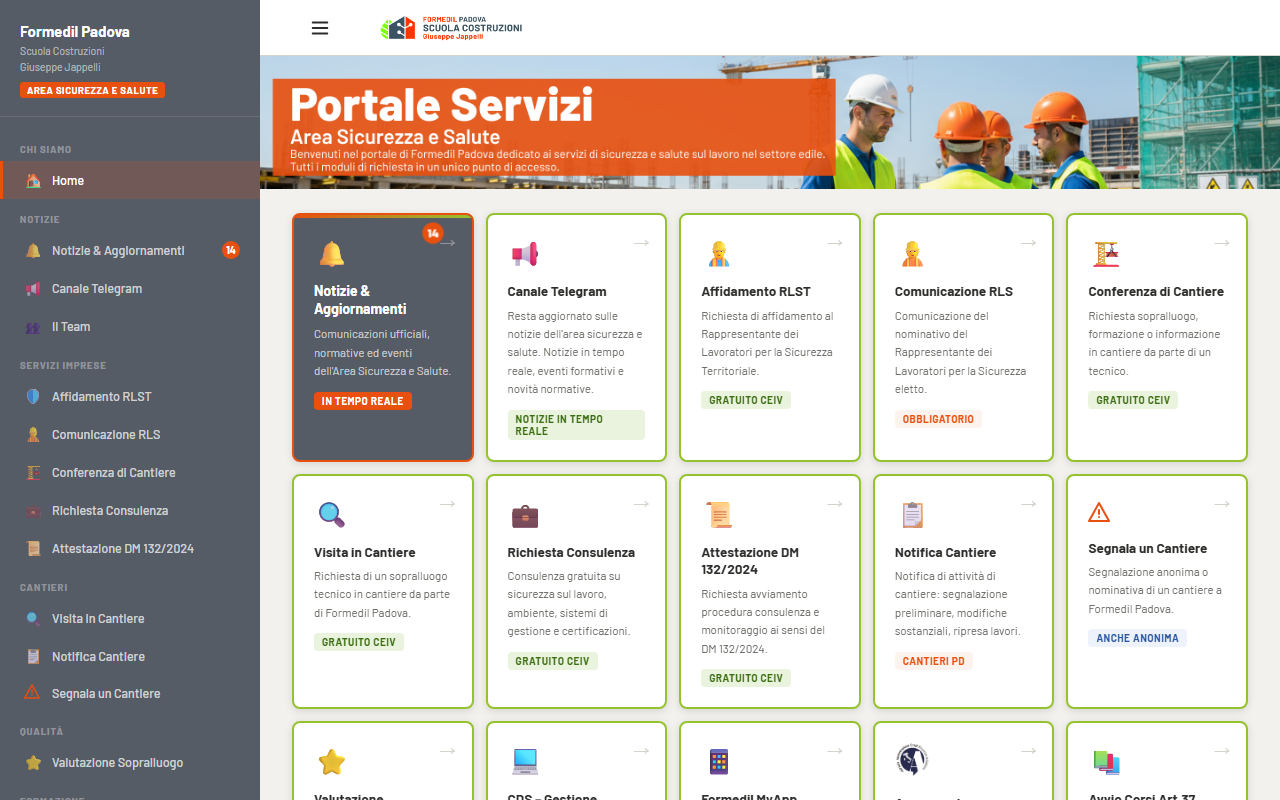
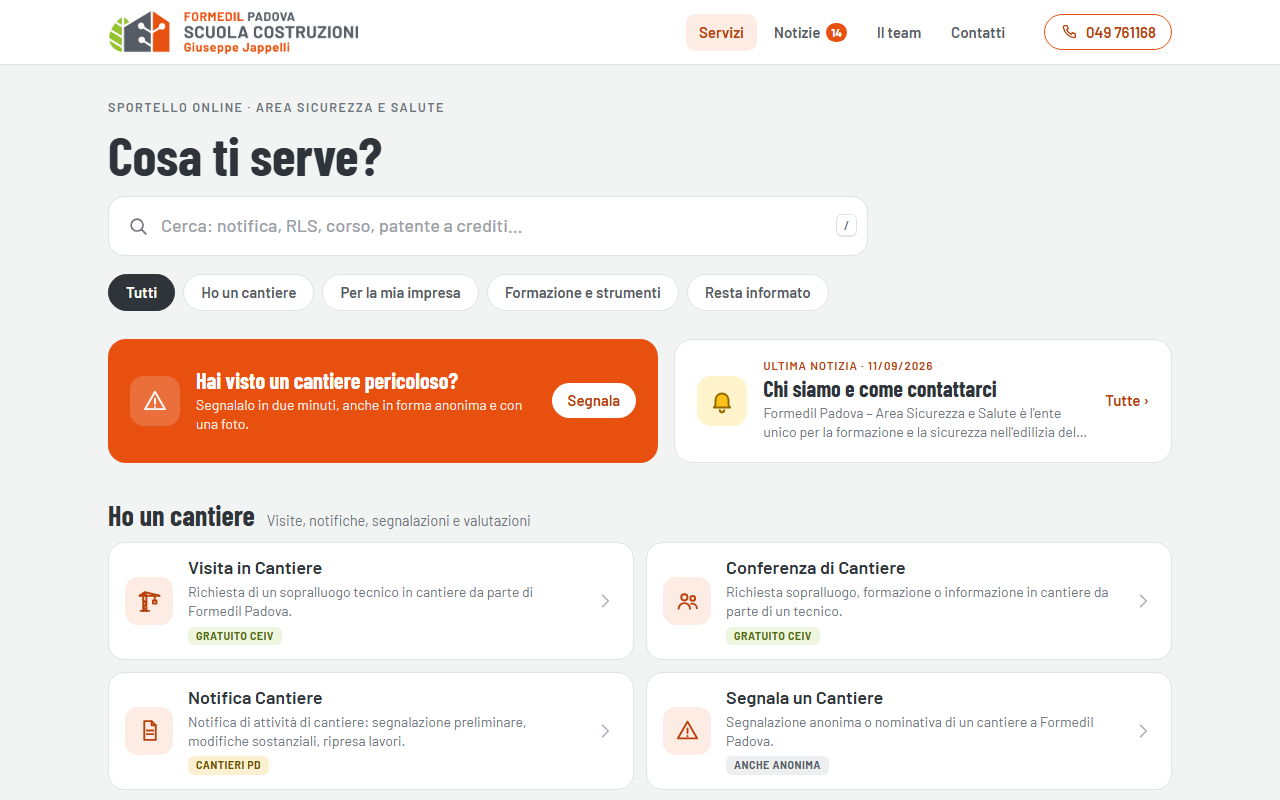
PWA: schermate della finestra di installazione rifatte con la veste «Sito 3 · Sportello»
Telefono catturato attraverso un iframe di 360×780 e ritagliato a 1080×2340:
Edge senza interfaccia non stringe la finestra sotto i ~500 px. Metodo nel README.

diff --git a/PWA/README.md b/PWA/README.md
@@ -11,7 +11,7 @@
 | `sw.js` | **Ritirato.** Se un telefono l'avesse registrato, si installa, svuota la vecchia cache e si deregistra. Copiato al posto di `../sw.js` è l'interruttore che spegne il service worker del portale. |
 | `icons/icon-*.png` | Icone «any» (logo ufficiale su bianco). |
 | `icons/icon-maskable-*.png` | Icone per Android, che le ritaglia a cerchio o goccia: lo stesso logo, **non alterato**, rimpicciolito dentro la zona sicura (cerchio dell'80%). |
-| `screenshots/home-*.png` | Schermate mostrate da Chrome nella finestra di installazione (telefono 1080×2340, PC 1280×800), catturate dal portale pubblico il 12/09/2026. |
+| `screenshots/home-*.png` | Schermate mostrate da Chrome nella finestra di installazione (telefono 1080×2340, PC 1280×800). **Rifatte il 14/09/2026** con la veste «Sito 3 · Sportello», dal portale pubblico con Edge senza interfaccia (`--headless=new --screenshot`, `--virtual-time-budget=10000` per far passare la schermata d'avvio). ⚠ Per il telefono non basta `--window-size=360,780`: Edge non stringe la finestra sotto i ~500 px e il sito si impagina più largo, con i bordi tagliati. Si cattura una paginetta con un `<iframe>` di 360×780 (finestra 520×780, `--force-device-scale-factor=3`) e si ritaglia a 1080×2340. Vanno rifatte quando la home cambia aspetto. |
 | `pwa-test.html` | Pagina di prova storica, non collegata. |
 
 La registrazione e l'invito a installare stanno in fondo a `../index.html`, sezione «APP SUL TELEFONO».
